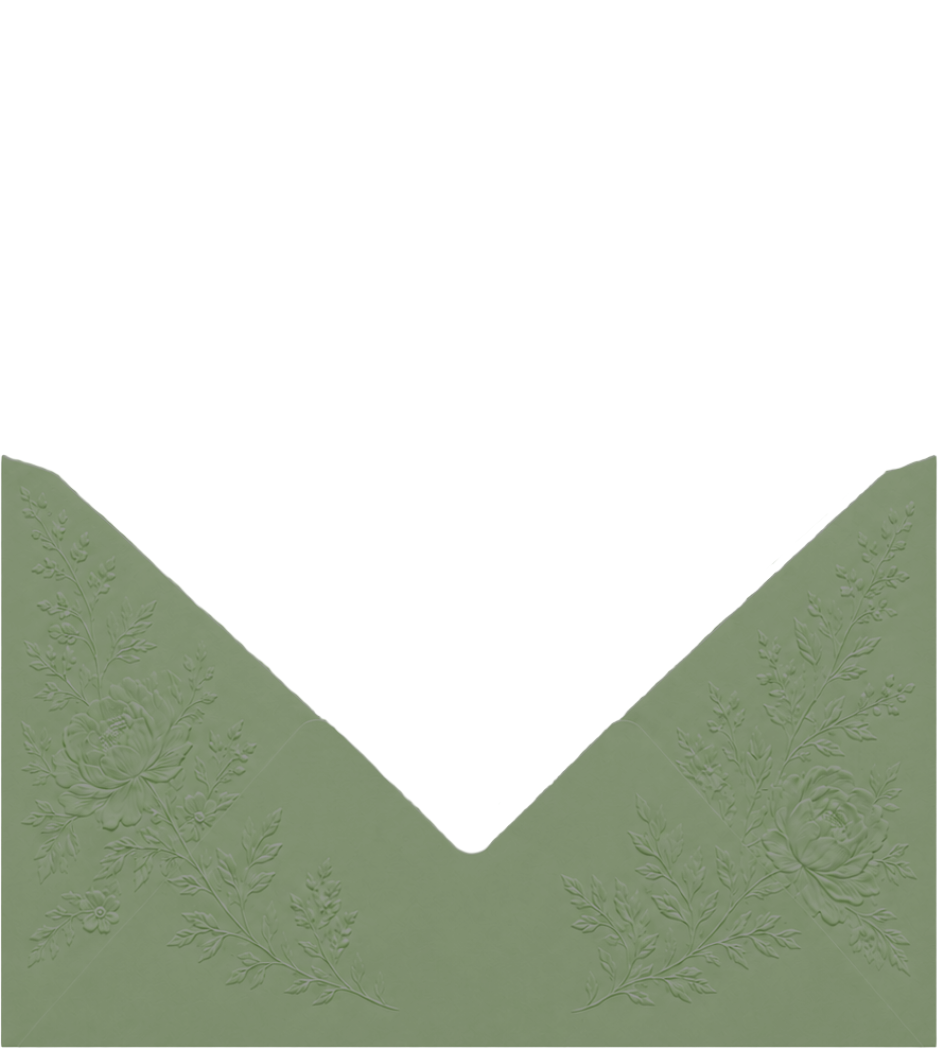
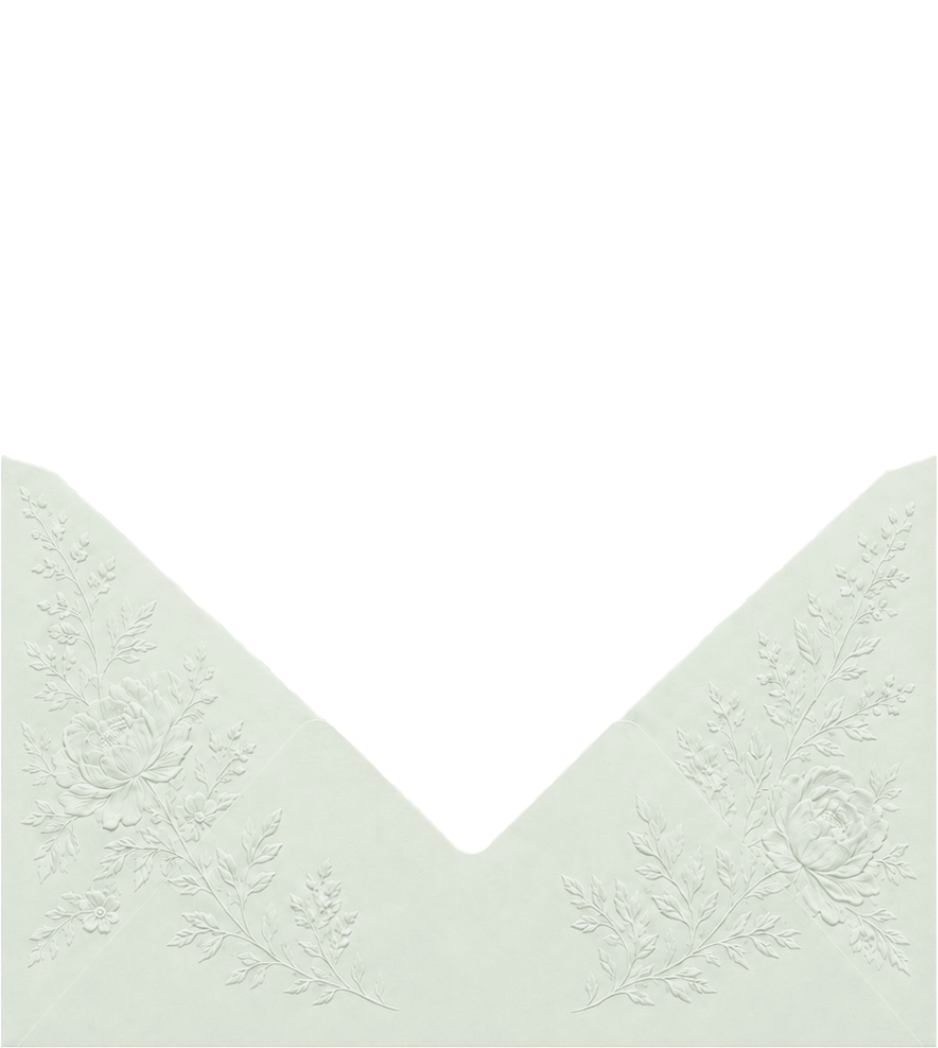
Set the envelope to #dfe6da
Derived from the source and target as before: hue 95deg, saturation
x0.243, value x0.950 of the blush original. Lands exactly on #dfe6da.
Bump the envelope URLs to ?v=6.

Delete the phone-only hint colour rather than invert it a third time. The
hint sits on the envelope there, so a dark envelope forced a light colour
and a mid one forced ink — but at this pale a tone the base sage reads
5.2:1 against the envelope AND against the cream backdrop that landscape
shows it on. One colour serves both, so the override is simply gone.
(White, which the olive needed, would have been 1.3:1 here — invisible.)

Note the envelope is now within 1.2:1 of the backdrop, so on desktop the
two are close in tone and it's env-back's drop shadow doing the work of
separating them.

diff --git a/css/save-the-date.css b/css/save-the-date.css
@@ -204,16 +204,16 @@ body.is-ready .petals { opacity: 1; }
    move it up to .stage, which owns the perspective. */
 .env__back  {
   z-index: 1;
-  background-image: image-set(url(../assets/env-back.webp?v=5)  type("image/webp"), url(../assets/env-back.png?v=5)  type("image/png"));
+  background-image: image-set(url(../assets/env-back.webp?v=6)  type("image/webp"), url(../assets/env-back.png?v=6)  type("image/png"));
   filter: drop-shadow(0 7px 14px rgba(84, 64, 58, 0.26));
 }
-.env__front { z-index: 3; background-image: image-set(url(../assets/env-front.webp?v=5) type("image/webp"), url(../assets/env-front.png?v=5) type("image/png")); }
+.env__front { z-index: 3; background-image: image-set(url(../assets/env-front.webp?v=6) type("image/webp"), url(../assets/env-front.png?v=6) type("image/png")); }
 
 /* The flap is authored in the OPEN (up) position; flipped down about its hinge
    (y≈43.4% of the piece) it covers the pocket = closed. One image, both faces. */
 .env__flap {
   z-index: 4;
-  background-image: image-set(url(../assets/env-flap.webp?v=5) type("image/webp"), url(../assets/env-flap.png?v=5) type("image/png"));
+  background-image: image-set(url(../assets/env-flap.webp?v=6) type("image/webp"), url(../assets/env-flap.png?v=6) type("image/png"));
   transform-origin: 50% 43.4%;
   /* the translateY is identity here, but it keeps the function list the same in
      all three states (closed / open / sliding) so each transition interpolates
@@ -489,16 +489,11 @@ body.is-ready .petals { opacity: 1; }
      would do nothing, and centred keeps the clasped hands in the middle. */
   .std__photo-img { object-position: center center; }
 
-  /* The envelope covers the whole screen here, so "tap to open" sits ON it rather
-     than on the pale backdrop — and the olive is dark enough that the answer
-     flipped: white reads at 3.8:1 where ink manages 3.0:1 and the original sage
-     only 1.7:1. The shadow does the rest; the raw ratio doesn't capture how much
-     an outline buys at this size. Landscape keeps the sage — there the hint sits
-     below the envelope, on the cream. */
-  .opener__hint-text {
-    color: #fff;
-    text-shadow: 0 1px 3px rgba(28, 36, 18, 0.55);
-  }
+  /* NOTE: "tap to open" needs no override here. On phones the envelope covers the
+     screen so the hint sits on it, and while the envelope was dark that forced a
+     light colour — but at this pale a tone the base sage reads 5.2:1 against the
+     envelope AND against the cream backdrop landscape shows it on. One colour now
+     serves both, so the override is gone rather than inverted again. */
 
   /* TYPE STEPS UP. Every size on the card is in cqw, i.e. relative to the card's
      WIDTH — and a phone card is ~390px where a monitor's is ~620px, so the scale

diff --git a/save-the-date.html b/save-the-date.html
@@ -41,7 +41,7 @@
   <!-- Bespoke save-the-date theme (mirrors the locked sage + blush palette).
        The ?v= query is a cache buster — bump it whenever the CSS or JS changes so
        browsers pick the new file up without a hard refresh. -->
-  <link rel="stylesheet" href="css/save-the-date.css?v=36" />
+  <link rel="stylesheet" href="css/save-the-date.css?v=37" />
 
   <!-- No-JS fallback: hide the envelope pieces so the sandwiched letter shows. -->
   <noscript>

diff --git a/README.md b/README.md
@@ -34,7 +34,7 @@ wedding stationery and to be hosted for free on **GitHub Pages**.
 
 - **`index.html`** — the full site: story, itinerary, locations, RSVP, FAQ.
 - **`save-the-date.html`** — a cinematic *save-the-date* on **one non-scrolling
-  screen**. Guests land on the couple's **own olive floral envelope, sized full
+  screen**. Guests land on the couple's **own pale sage floral envelope, sized full
   bleed**: it's deliberately oversized so its body covers the whole viewport — edge
   to edge on a desktop, and on a phone a **deep zoom that leaves only the middle of
   the envelope on screen**. The envelope is built from three layered pieces
@@ -177,7 +177,7 @@ Until then, treat any "submitted" RSVP as **not recorded**.
   cropped to a shared coordinate space and compressed for the web. No third-party
   license applies.
 
-  They were supplied in **blush** and have been **recoloured to a muted olive-sage** (`#819171`).
+  They were supplied in **blush** and have been **recoloured to a pale sage** (`#dfe6da`).
   The embossing is carried entirely in luminance, so the recolour pins the hue and
   rescales saturation and value, leaving every petal and fern untouched. The blush
   originals are in git history if they're ever wanted back. The envelope URLs carry
